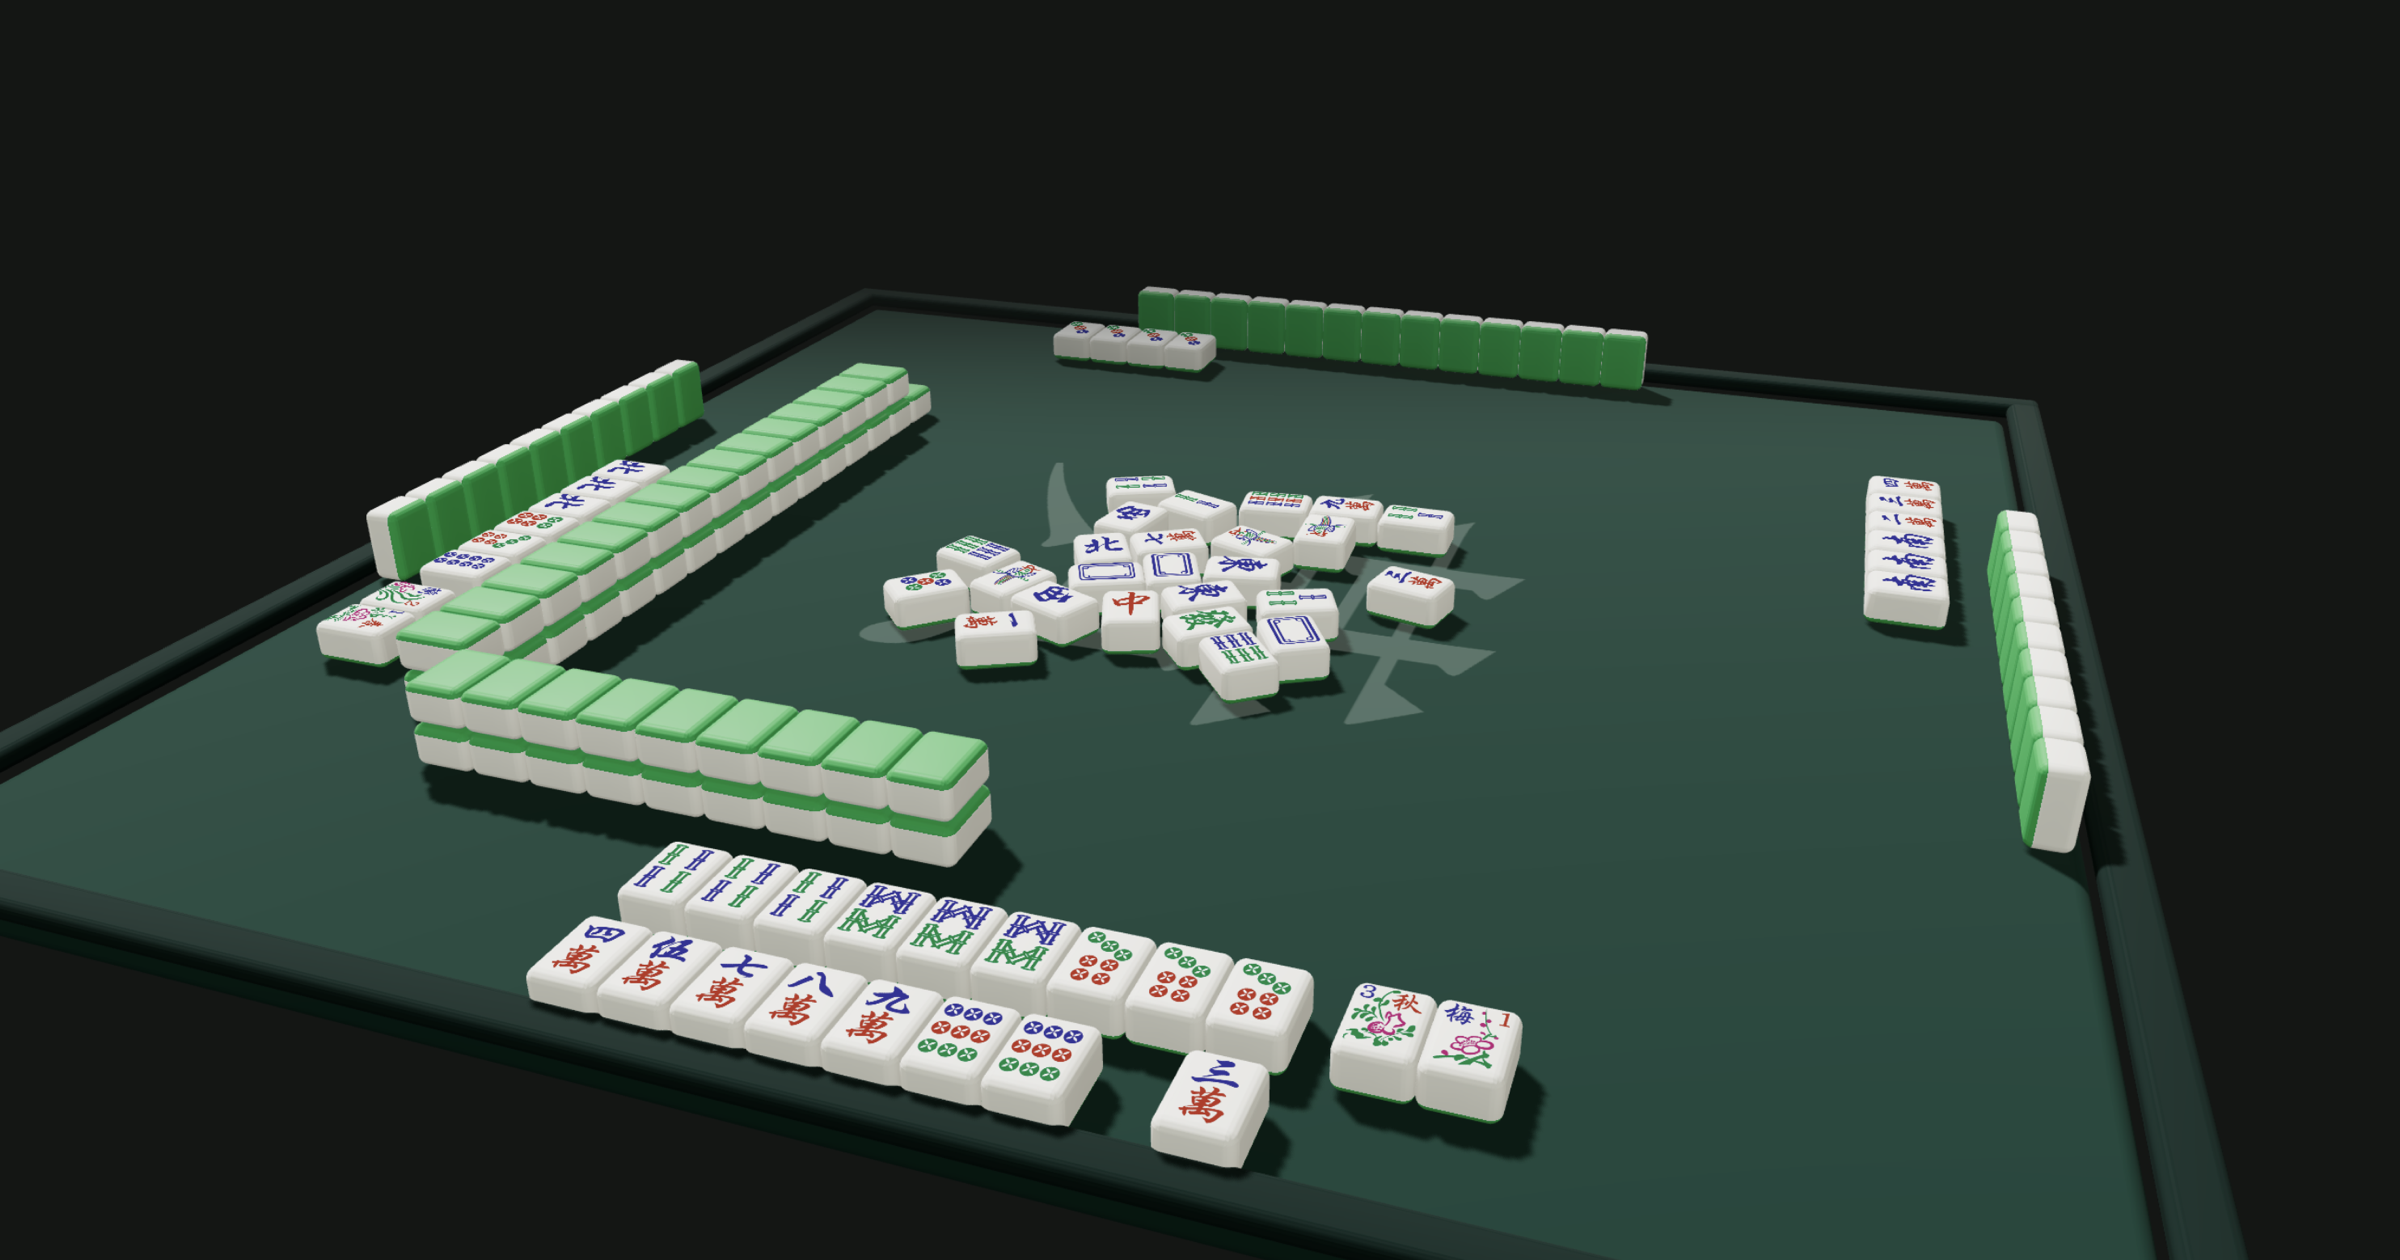
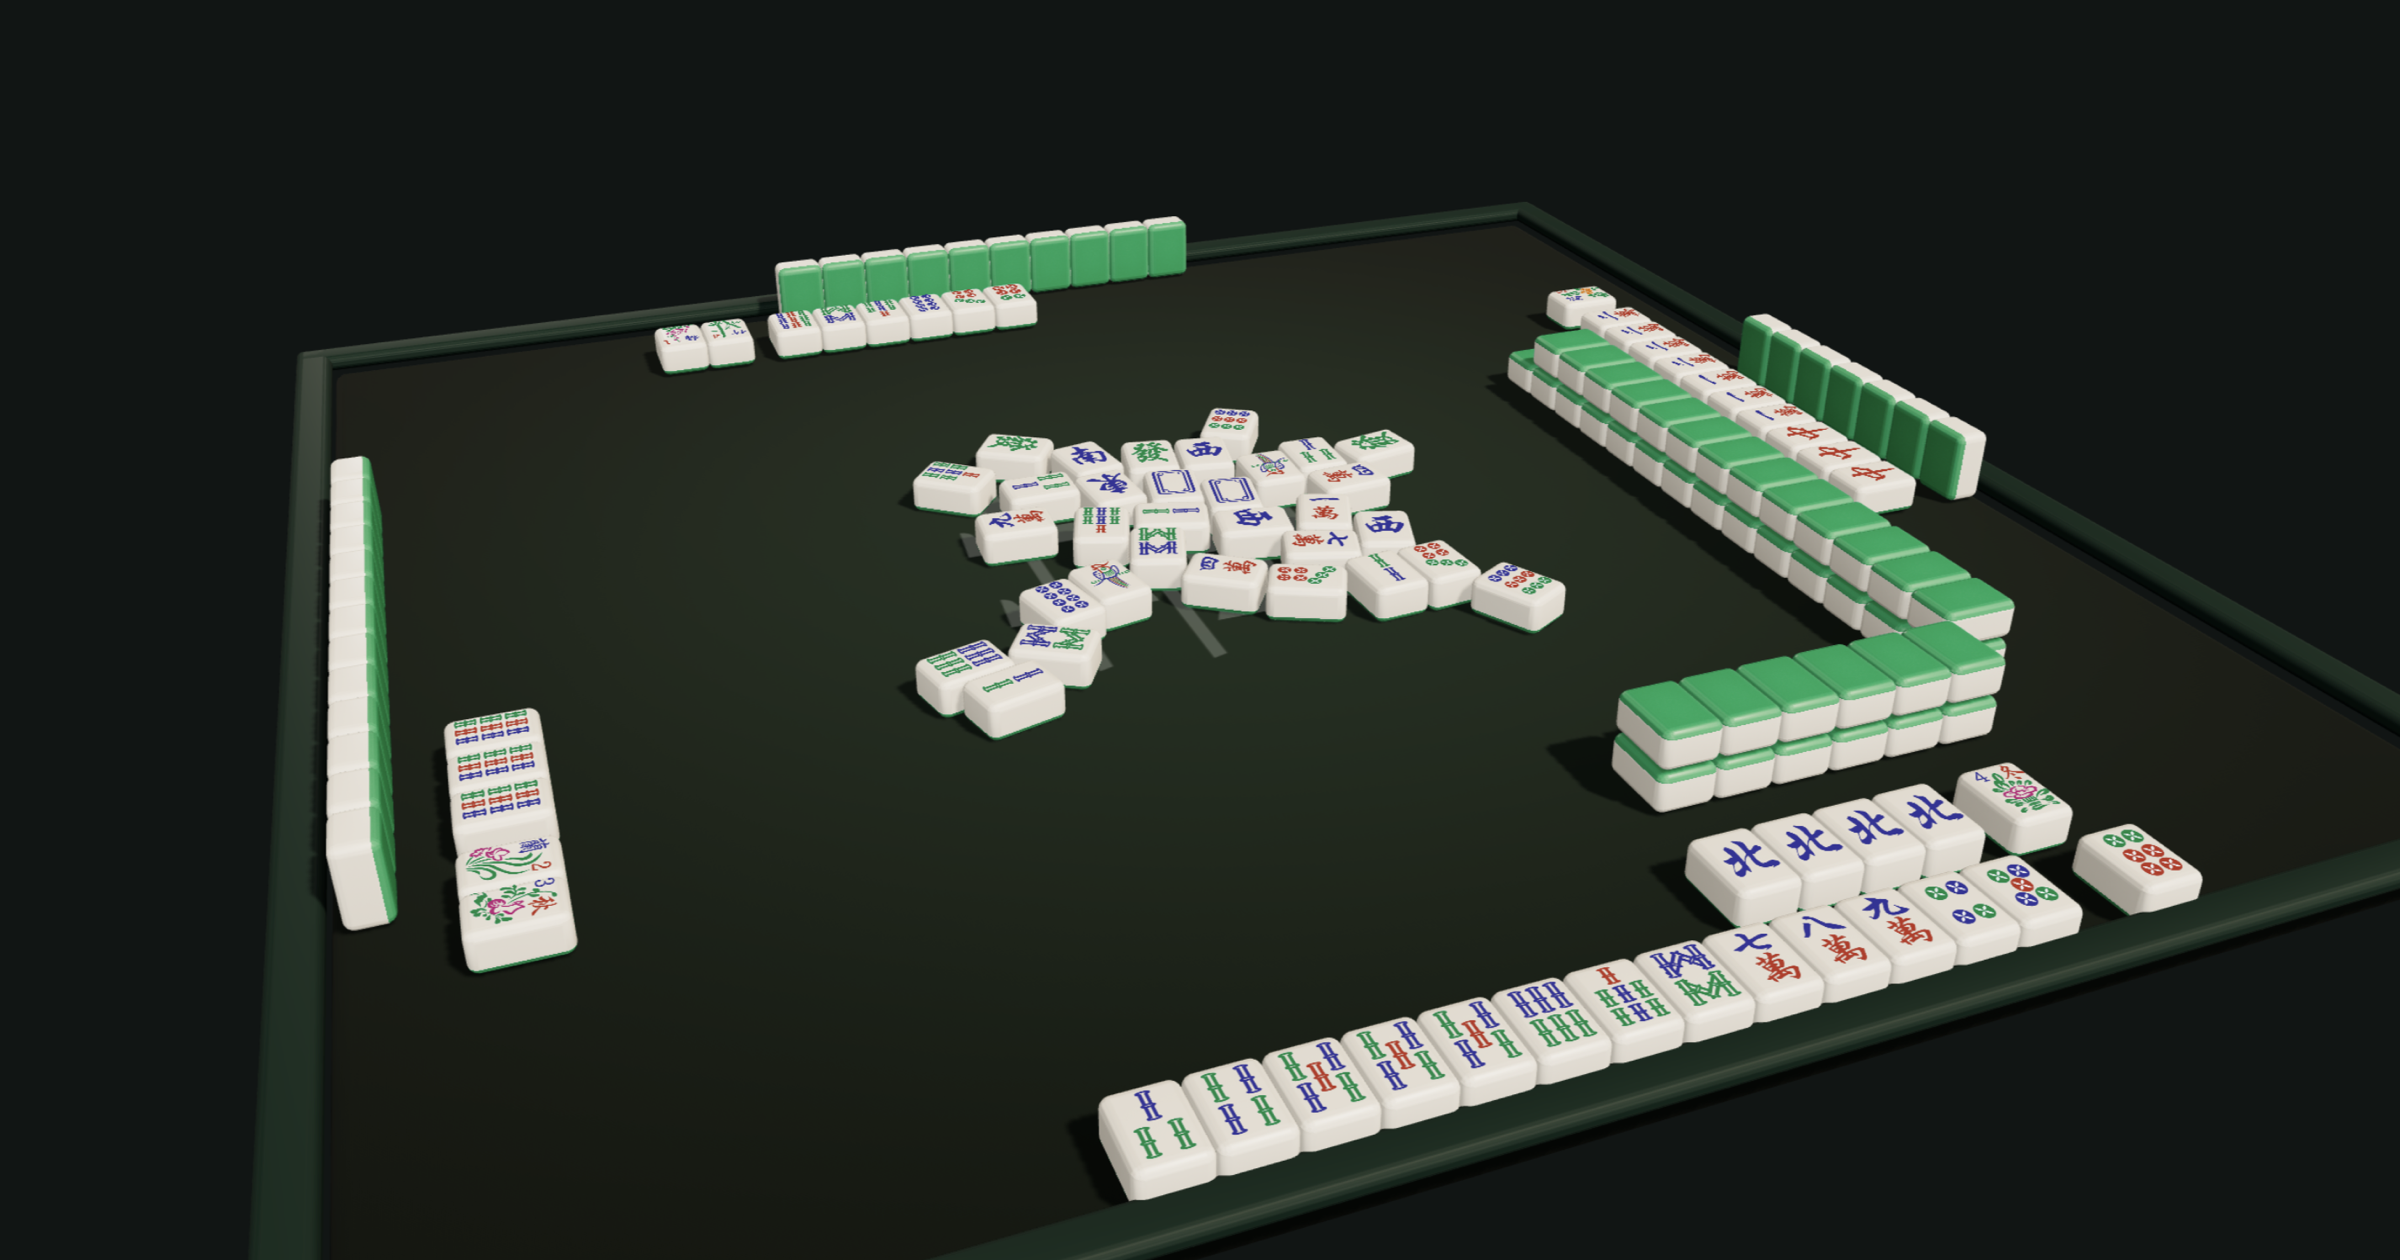
update README

diff --git a/index.html b/index.html
@@ -9,7 +9,7 @@
     <meta name="viewport" content="width=device-width, initial-scale=1.0" />
     <meta
       name="description"
-      content="Taiwanese Mahjong Infinite 3D Simulator."
+      content="Taiwanese Mahjong 3D sim."
     />
     <meta name="theme-color" content="#111827" />
     <link rel="canonical" href="https://elh.github.io/mahjong-3d/" />
@@ -21,7 +21,7 @@
     />
     <meta
       property="og:description"
-      content="Taiwanese Mahjong Infinite 3D Simulator."
+      content="Taiwanese Mahjong 3D sim."
     />
     <meta
       property="og:image"
@@ -36,7 +36,7 @@
     />
     <meta
       name="twitter:description"
-      content="Taiwanese Mahjong Infinite 3D Simulator."
+      content="Taiwanese Mahjong 3D sim."
     />
     <meta
       name="twitter:image"

diff --git a/src/ui/InfoModal.tsx b/src/ui/InfoModal.tsx
@@ -16,7 +16,7 @@ export function InfoModal({
     >
       <header>
         <h2 id="info-modal-title">Mahjong 3D</h2>
-        <p className="info-modal-subtitle">Infinite Taiwanese Mahjong sim</p>
+        <p className="info-modal-subtitle">Taiwanese Mahjong 3D sim</p>
       </header>
       <p className="info-modal-meta">
         Github: <a href="https://github.com/elh/mahjong-3d">elh/mahjong-3d</a>

diff --git a/README.md b/README.md
@@ -1,10 +1,8 @@
 # mahjong-3d
 
-Infinite Taiwanese Mahjong simulator made with React Three Fiber and Rapier.
+Taiwanese Mahjong 3D sim made with React Three Fiber and Rapier.
 
-<img width="1498" height="779" alt="Mahjong simulation" src="https://github.com/user-attachments/assets/3a183131-a560-40a4-8453-fd05f3b82c2a" />
-
-<img width="1301" height="784" alt="Mahjong game debug" src="https://github.com/user-attachments/assets/82c1ba3b-1069-4011-8272-63d3f9b1421c" />
+![screenshot](public/social-preview.png)
 
 ## Development
 
